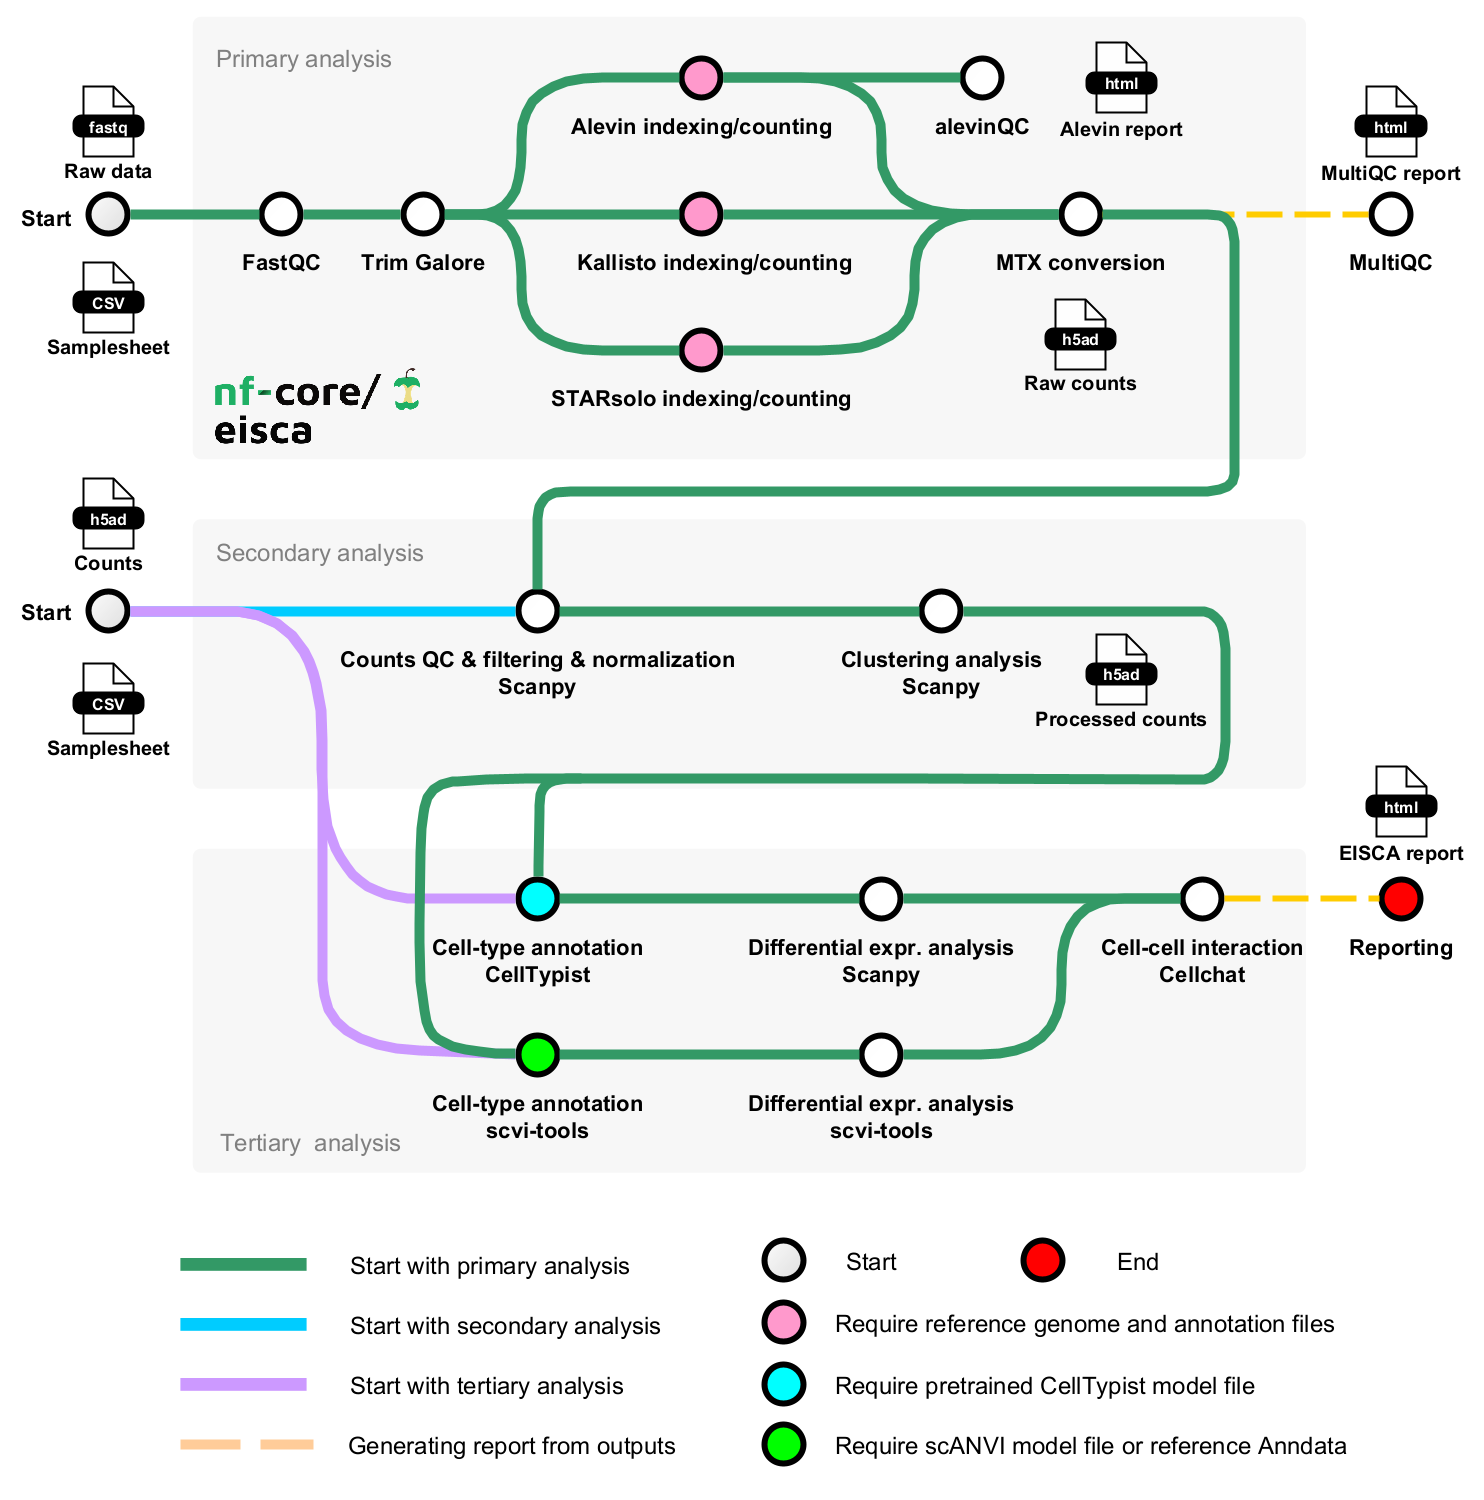
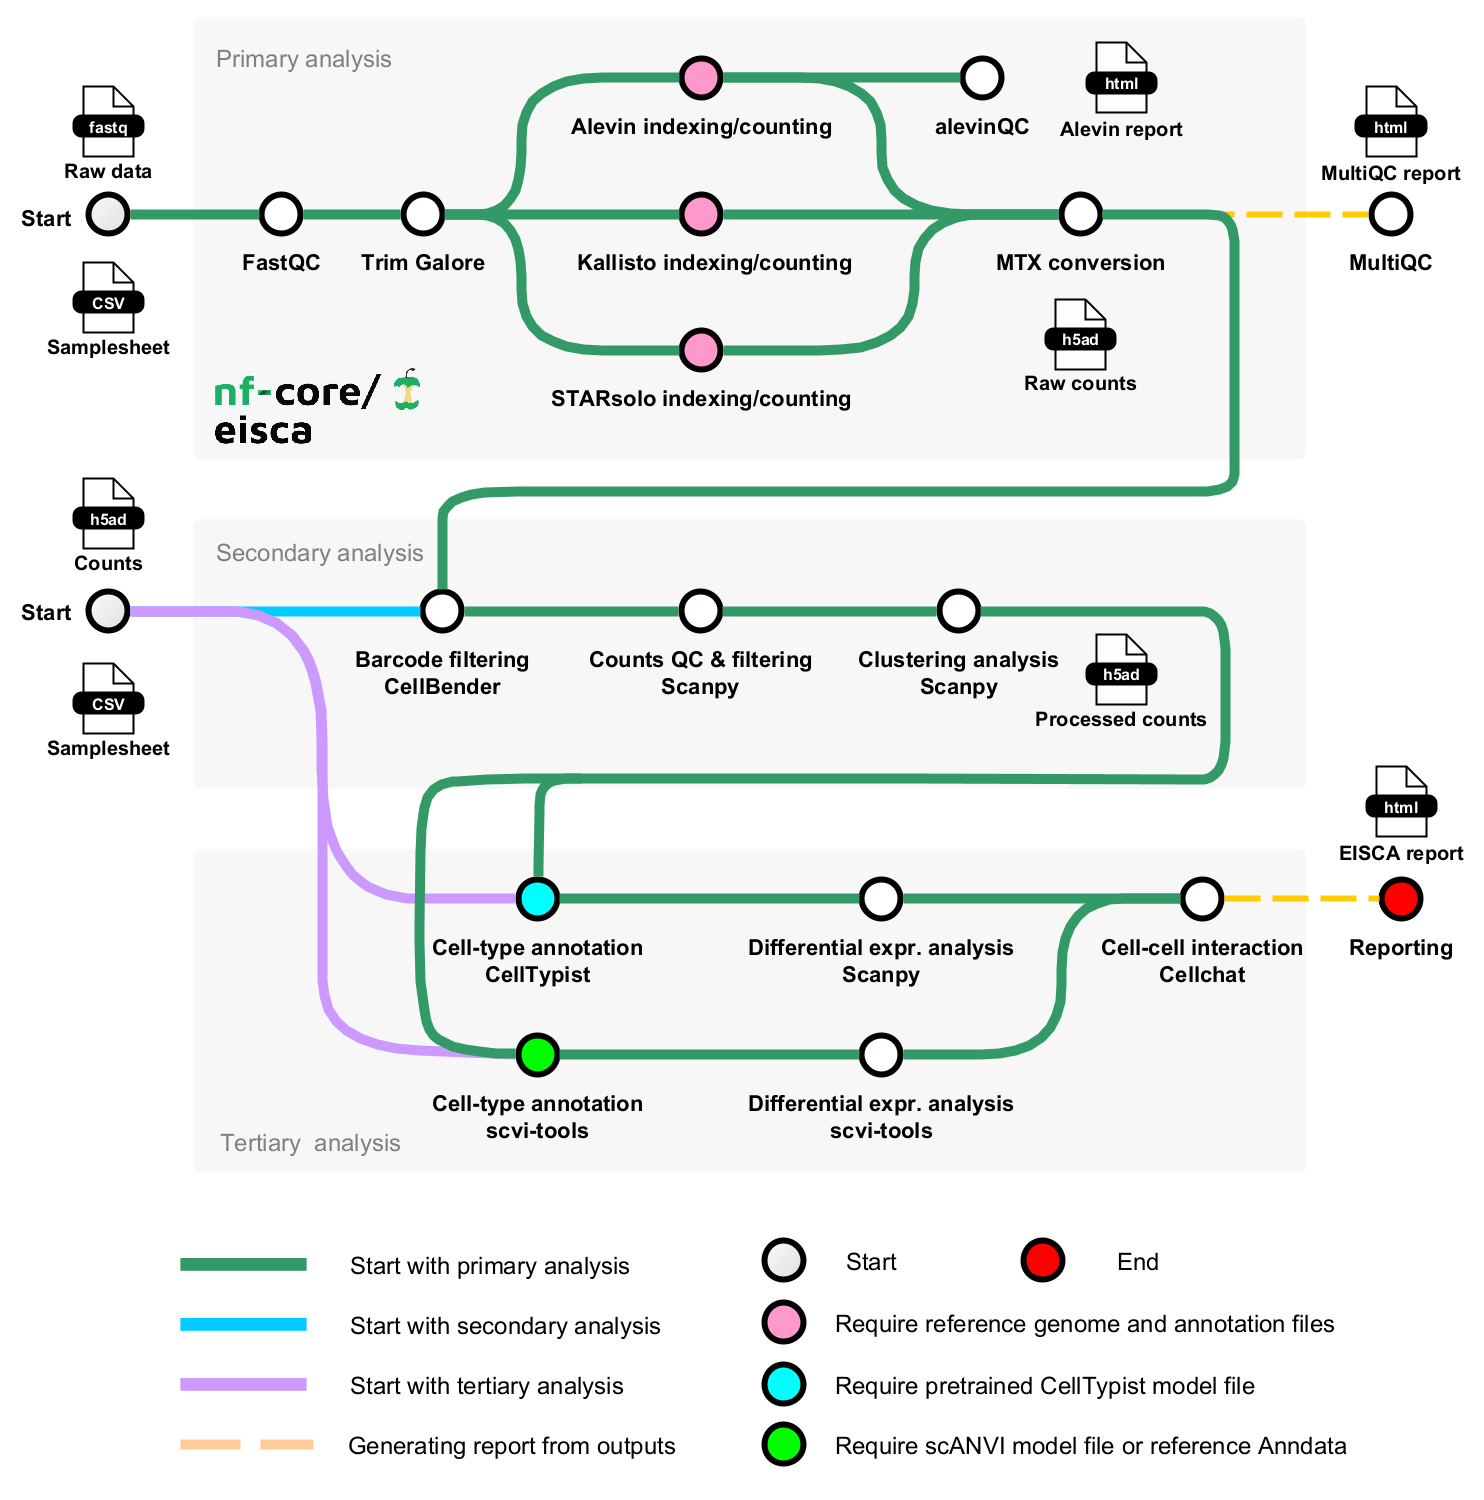
update docs

Changed region(s): [[0.217, 0.3067, 0.7129, 0.46]]

diff --git a/docs/usage.md b/docs/usage.md
@@ -105,16 +105,17 @@ The pipline has 3 analysis phases:
    - Mapping reads and quantification
    - Convert count matrix into Anndata and Securat objects
 2. **secondary phase** inculdes analyses:
-   - Single-cell quality control
-   - Cell filtering
-   - Clustering analysis
-   - Merging/integration of samples
+   - Barcode filtering (`cellbender`)
+   - Single-cell quality control (`qccellfilter`)
+   - Cell filtering (`qccellfilter`)
+   - Clustering analysis (`clustering`)
+   - Merging/integration of samples (`clustering`)
 3. **tertiary phase** inculdes analyses:    
-   - Cell type annotation
-   - Cell type annotation with scvi-tools
-   - Differential expression analysis
-   - Differential expression analysis with scvi-tools
-   - Cell-cell communication analysis
+   - Cell type annotation (`annotation`)
+   - Cell type annotation with scvi-tools (`annotation_scvi`)
+   - Differential expression analysis (`dea`)
+   - Differential expression analysis with scvi-tools (`dea_scvi`)
+   - Cell-cell communication analysis (`cellchat`)
    - Trajectory & pseudotime analysis (To be implemented)
    - Other downstream analyses (To be implemented)
 

diff --git a/CHANGELOG.md b/CHANGELOG.md
@@ -3,31 +3,34 @@
 The format is based on [Keep a Changelog](https://keepachangelog.com/en/1.0.0/)
 and this project adheres to [Semantic Versioning](https://semver.org/spec/v2.0.0.html).
 
-## v2.5 - [2025-11-19]
+## v2.6.0 - [2026-05-20]
+- add a new module for CellBender to remove empty droplets.
+
+## v2.5.0 - [2025-11-19]
 - add the scvi integration method to the clustering module using scvi-tools
 - add a new module annotation_scvi for cell-type prediction using scvi-tools
 - add a new module dea_scvi for differential expression analysis using scvi-tools
 
-## v2.0 - [2025-07-01]
+## v2.0.0 - [2025-07-01]
 - add cell-cell communication analysis with tool cellchat
 - allow genearting PDF figures
 
-## v1.8 - [2024-12-11]
+## v1.8.0 - [2024-12-11]
 - add support for smart-seq2 data analysis
 
-## v1.6 - [2024-11-05]
+## v1.6.0 - [2024-11-05]
 - add tertiary analysis: Differential expression analysis
 - fix plot size issue in report
 
 
-## v1.4 - [2024-10-22]
+## v1.4.0 - [2024-10-22]
 - add tertiary analysis: Cell type annotation
 - add 'analysis parameters' for analysis sections in report 
 
-## v1.1 - [2024-10-04]
+## v1.1.0 - [2024-10-04]
 - add module 'Merging/integration of samples' for secondary analysis
 
-## v1.0 - [2024-09-19]
+## v1.0.0 - [2024-09-19]
 
 Initial release of nf-core/eisca, created with the [nf-core](https://nf-co.re/) template.
 The pipeline including following analyses:

diff --git a/docs/output.md b/docs/output.md
@@ -19,6 +19,7 @@ The pipeline is built using [Nextflow](https://www.nextflow.io/) and processes d
   - [Salmon Alevin](#salmon-alevin--alevinqc) - Mapping & quantification by Salmon Alevin
   - [STARsolo](#starsolo) - Mapping & quantification by STAR
 - [Secondary analysis](#secondary-analysis)
+  - [Barcode filtering](#Barcode-filtering) - Filtering out empty droplets from raw data
   - [QC & cell filtering](#qc--cell-filtering) - Cell filtering and QC on raw data and filtered data
   - [Clustering analysis](#clustering-analysis) - Single-cell clustering analysis
 - Tertiary analysis
@@ -118,6 +119,18 @@ For details on how to load these into R and perform further downstream analysis,
 
 
 ## Secondary analysis
+
+### <u>Barcode filtering</u>
+
+**Output directory: `results/cellbender`**
+- `removebackground/`
+  - `combined_raw_matrix*.h5`: HDF5 files containing a detailed output of CellBender inference procedure.
+  - `combined_raw_matrix_cell_barcodes.csv`:  A plain text list of the exact cell barcodes with a posterior cell probability exceeding 0.5 to be considered real cells.
+  - `combined_raw_matrix.pdf`:  A PDF summary of the results showing (1) the evolution of the loss function during training, (2) a ranked-ordered total UMI plot along with posterior cell probabilities, and (3) a two-dimensional PCA scatter plot of the latent embedding of the expressions in cell-containing droplets. Notice the rapid drop in the cell probability after UMI rank ~ 500.
+  - `combined_raw_matrix_report.html`: An HTML report which points out a few things about the run and highlights differences between the output and the input. Issues warnings if there are any aspects of the run that look anomalous, and makes suggestions.
+- `mtx_conversions/`
+  - `combined_raw_matrix_cellbender_filter.h5ad`: AnnData object file after filtering out empty droplets.
+
 
 ### <u>QC & cell filtering</u>
 

diff --git a/README.md b/README.md
@@ -8,7 +8,6 @@
 [![run with singularity](https://img.shields.io/badge/run%20with-singularity-1d355c.svg?labelColor=000000)](https://sylabs.io/docs/)
 [![Launch on Seqera Platform](https://img.shields.io/badge/Launch%20%F0%9F%9A%80-Seqera%20Platform-%234256e7)](https://cloud.seqera.io/launch?pipeline=https://github.com/nf-core/eisca)
 
-[![Get help on Slack](http://img.shields.io/badge/slack-nf--core%20%23eisca-4A154B?labelColor=000000&logo=slack)](https://nfcore.slack.com/channels/eisca)[![Follow on Twitter](http://img.shields.io/badge/twitter-%40nf__core-1DA1F2?labelColor=000000&logo=twitter)](https://twitter.com/nf_core)[![Follow on Mastodon](https://img.shields.io/badge/mastodon-nf__core-6364ff?labelColor=FFFFFF&logo=mastodon)](https://mstdn.science/@nf_core)[![Watch on YouTube](http://img.shields.io/badge/youtube-nf--core-FF0000?labelColor=000000&logo=youtube)](https://www.youtube.com/c/nf-core)
 
 ## Introduction
 
@@ -26,6 +25,7 @@ The modules of the pipeline are listed as follows:
   - MTX conversion - Converting count matrixes into Anndata objects
   - CONCAT counts - Concatenating input Anndata objects into one Anndata object
 - **Secondary analysis**
+  - Barcode filtering - Filtering out empty droplets from raw data
   - QC & cell filtering - cell filtering and QC on raw data and filtered data
   - Clustering analysis - single-cell clustering analysis
   - Merging/integration of samples 